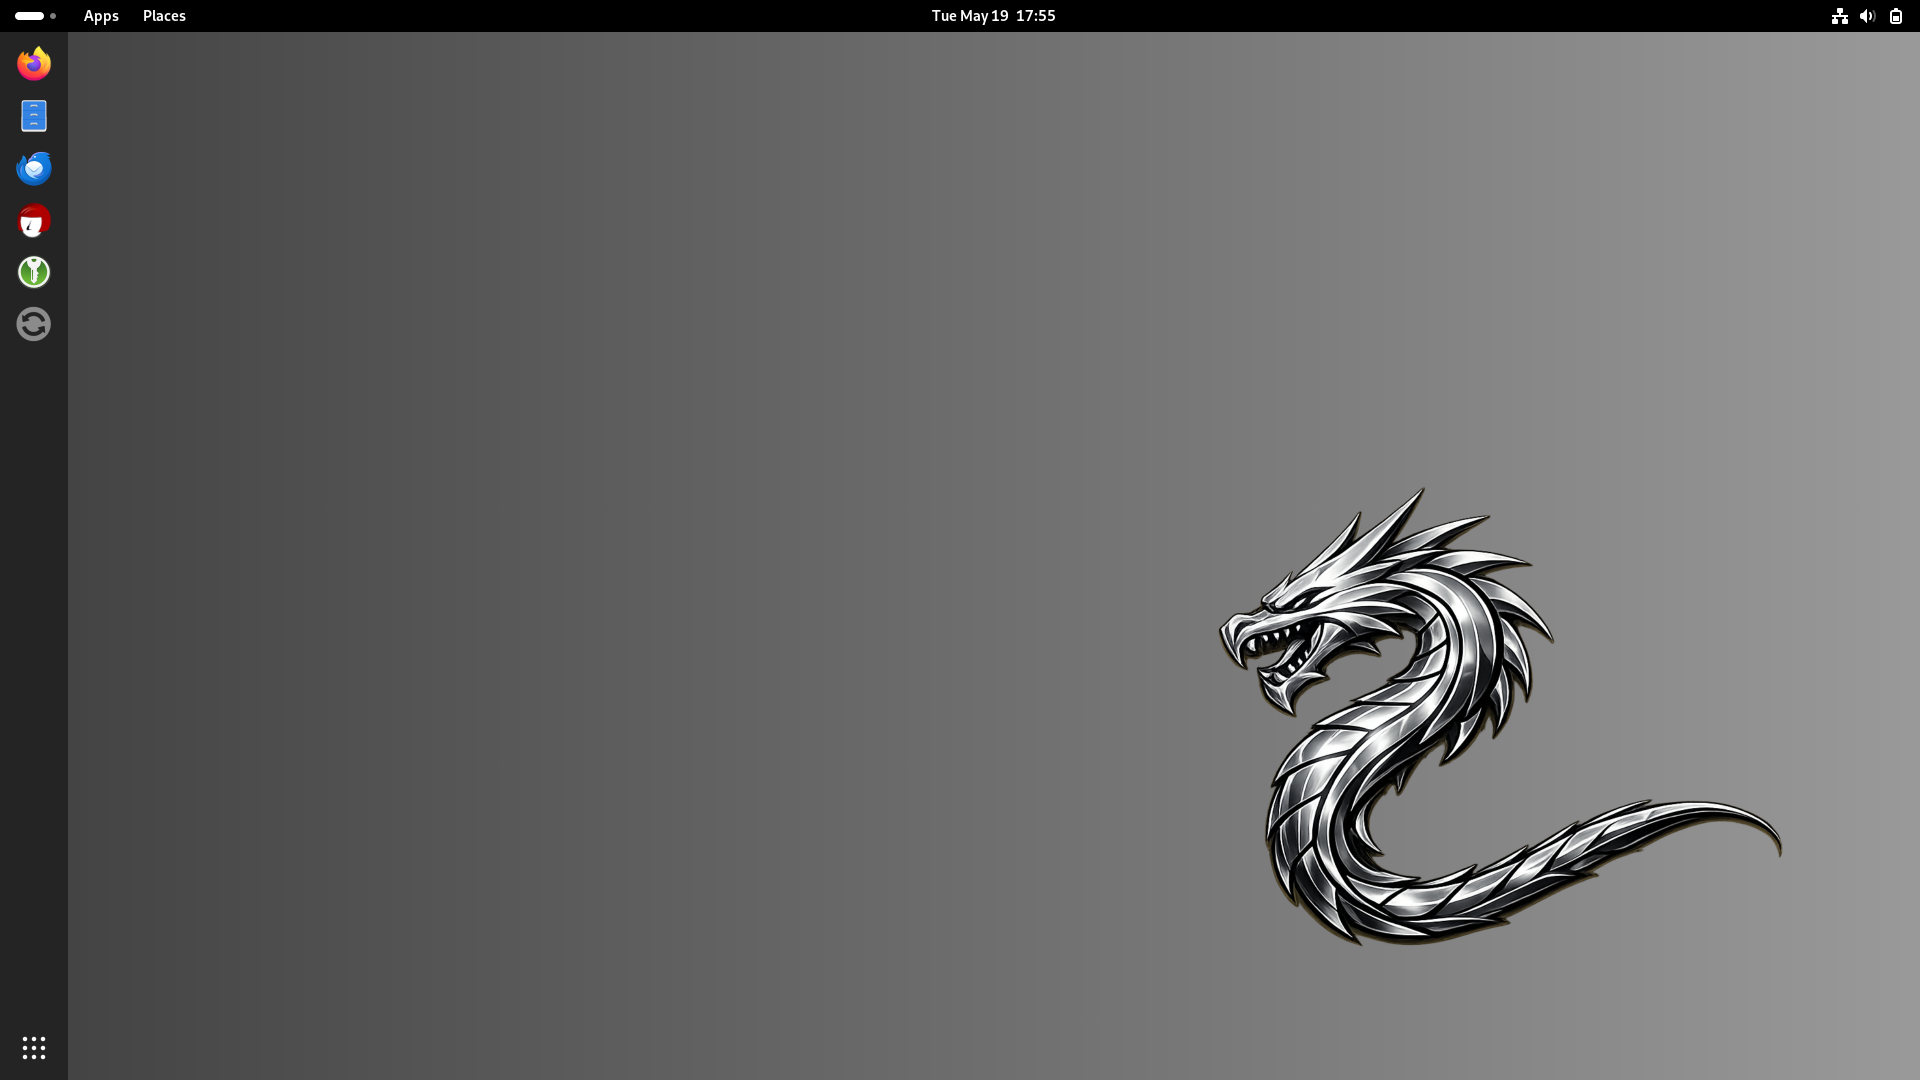
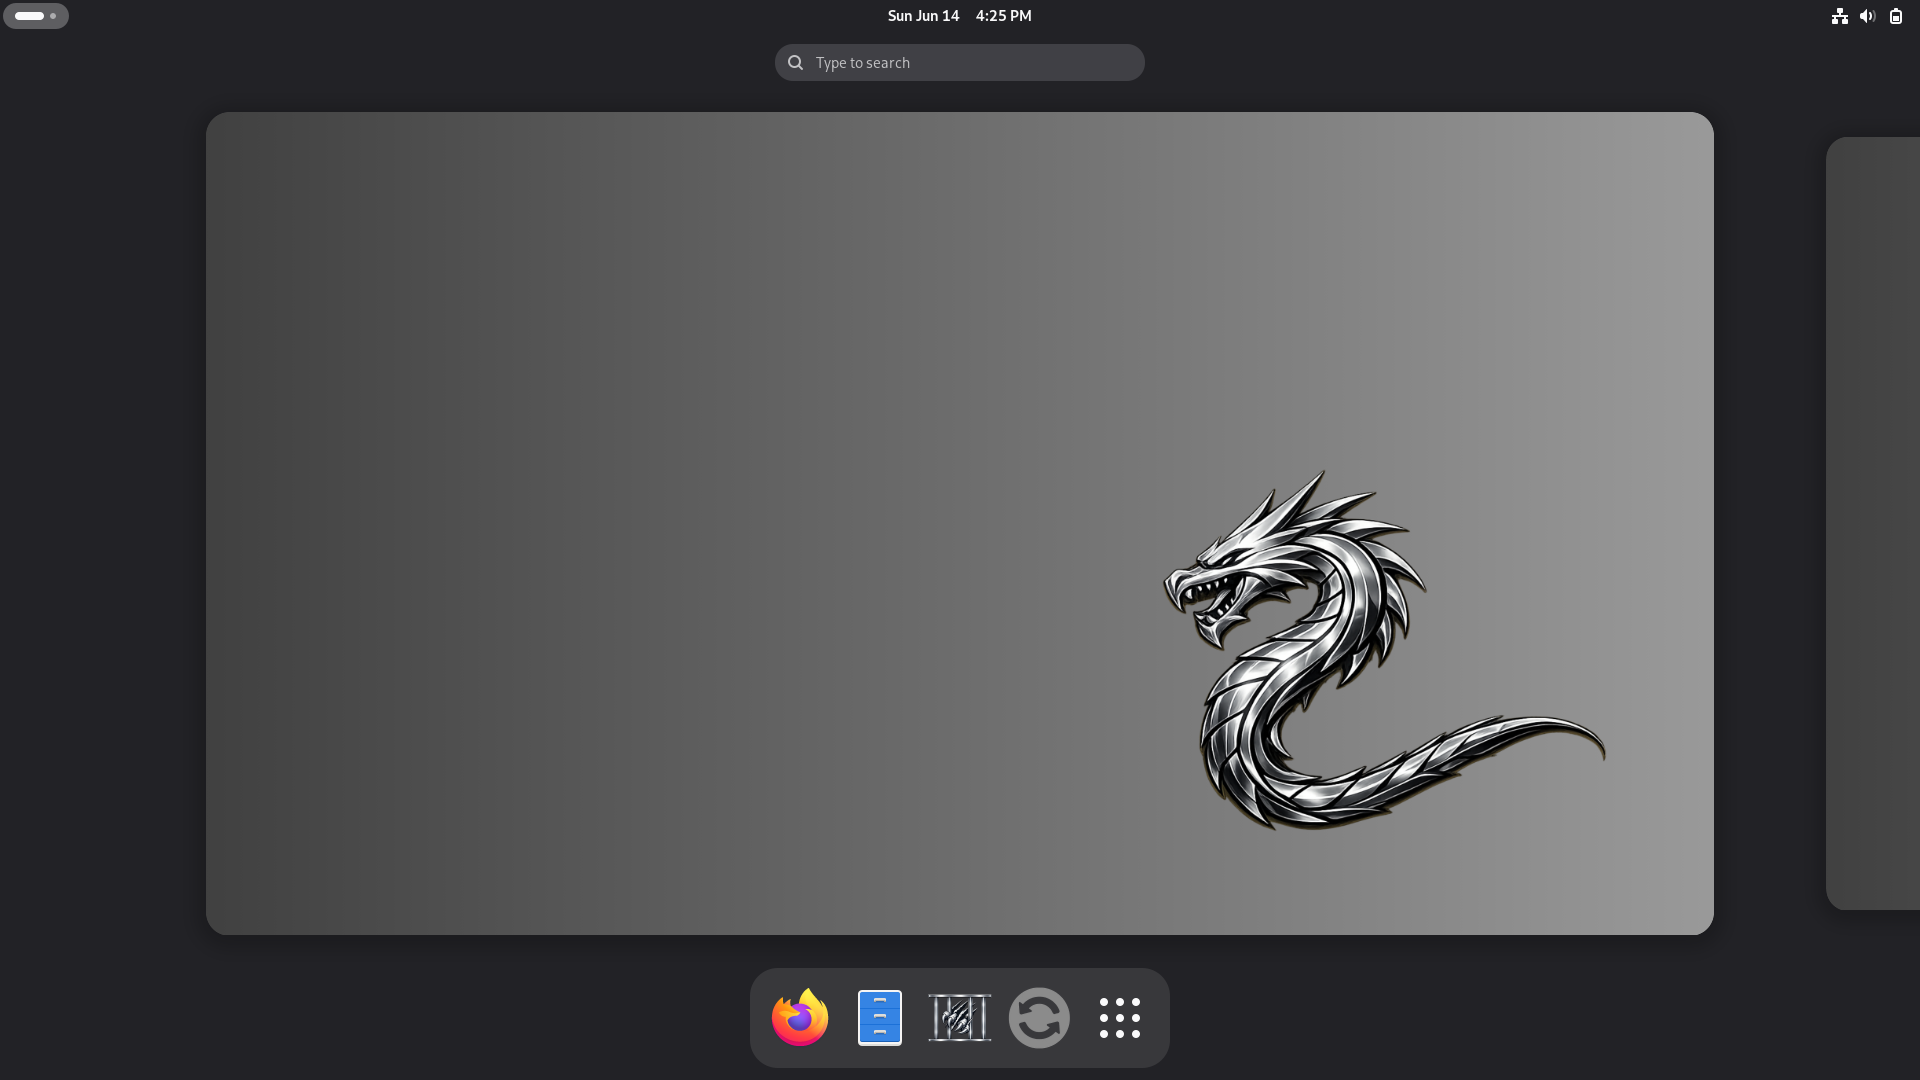
update

diff --git a/distros.html b/distros.html
@@ -332,8 +332,10 @@
                             cyber attacks, incorporating aggressive mitigation techniques alongside kernel, system and
                             network-hardening configurations. Comprehensive security measures include BadUSB protection,
                             permission-hardening services, package manager hardening, module blacklisting, PAM and
-                            sudoers hardening. A strict firewall policy enforces Quad9 DNS and allows only basic
-                            internet access. The system boots into the Debian Installer which installs a customised
+                            sudoers hardening. In addition, the distribution uses Hardenwing Jails, a GUI isolation
+                            application.
+                            A strict firewall policy enforces Quad9 DNS and allows only basic
+                            internet access. The system boots into the Debian Installer which installs a
                             GNOME (Wayland) desktop.</p>
                         <div class="distro-card-features">
                             <span class="distro-feature"><svg viewBox="0 0 24 24" fill="none" stroke="currentColor"